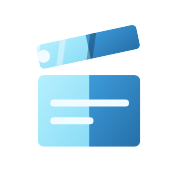
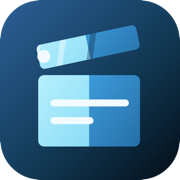
fix: 写真削除がサーバーに同期されない不具合を修正し、アプリアイコンを背景付きに変更
- 編集保存・新規作成時にphotosフィールドがSupabase同期から漏れており、
  削除した写真が再読み込み時に復活していたのを修正
- ホーム画面用アイコンが透過背景になっていたため、ネイビー背景付きの
  元デザイン(icon-concepts)に差し替え
- Android Chromeでホーム画面追加時にChromeマークが付く問題を解消するため
  manifest.jsonを追加(PWAとしてstandalone起動するように設定)

diff --git a/index.html b/index.html
@@ -7,8 +7,9 @@
   <meta name="apple-mobile-web-app-status-bar-style" content="black">
   <meta name="theme-color" content="#111111">
   <title>SHOT LOG</title>
-  <link rel="icon" href="icons/favicon-32.png?v=2">
-  <link rel="apple-touch-icon" href="icons/apple-touch-icon.png?v=2">
+  <link rel="icon" href="icons/favicon-32.png?v=3">
+  <link rel="apple-touch-icon" href="icons/apple-touch-icon.png?v=3">
+  <link rel="manifest" href="manifest.json">
   <link rel="stylesheet" href="css/styles.css?v=20260819h">
 </head>
 <body>

diff --git a/js/auth.js b/js/auth.js
@@ -221,7 +221,7 @@
       memo: log.memo || '',
       trouble_category: log.troubleCategory || '',
       trouble_subcategory: log.troubleSubcategory || '',
-      photos: [],
+      photos: log.photos || [],
       is_missed: !!log.isMissed,
     }).then(({ error }) => {
       if (error) console.error('[shotlog] insertLog failed', error);

diff --git a/js/app.js b/js/app.js
@@ -2066,6 +2066,7 @@ function saveEditedLog() {
     filename: log.filename,
     trouble_category: log.troubleCategory,
     trouble_subcategory: log.troubleSubcategory,
+    photos: log.photos,
   });
   closeSheet();
   render();
